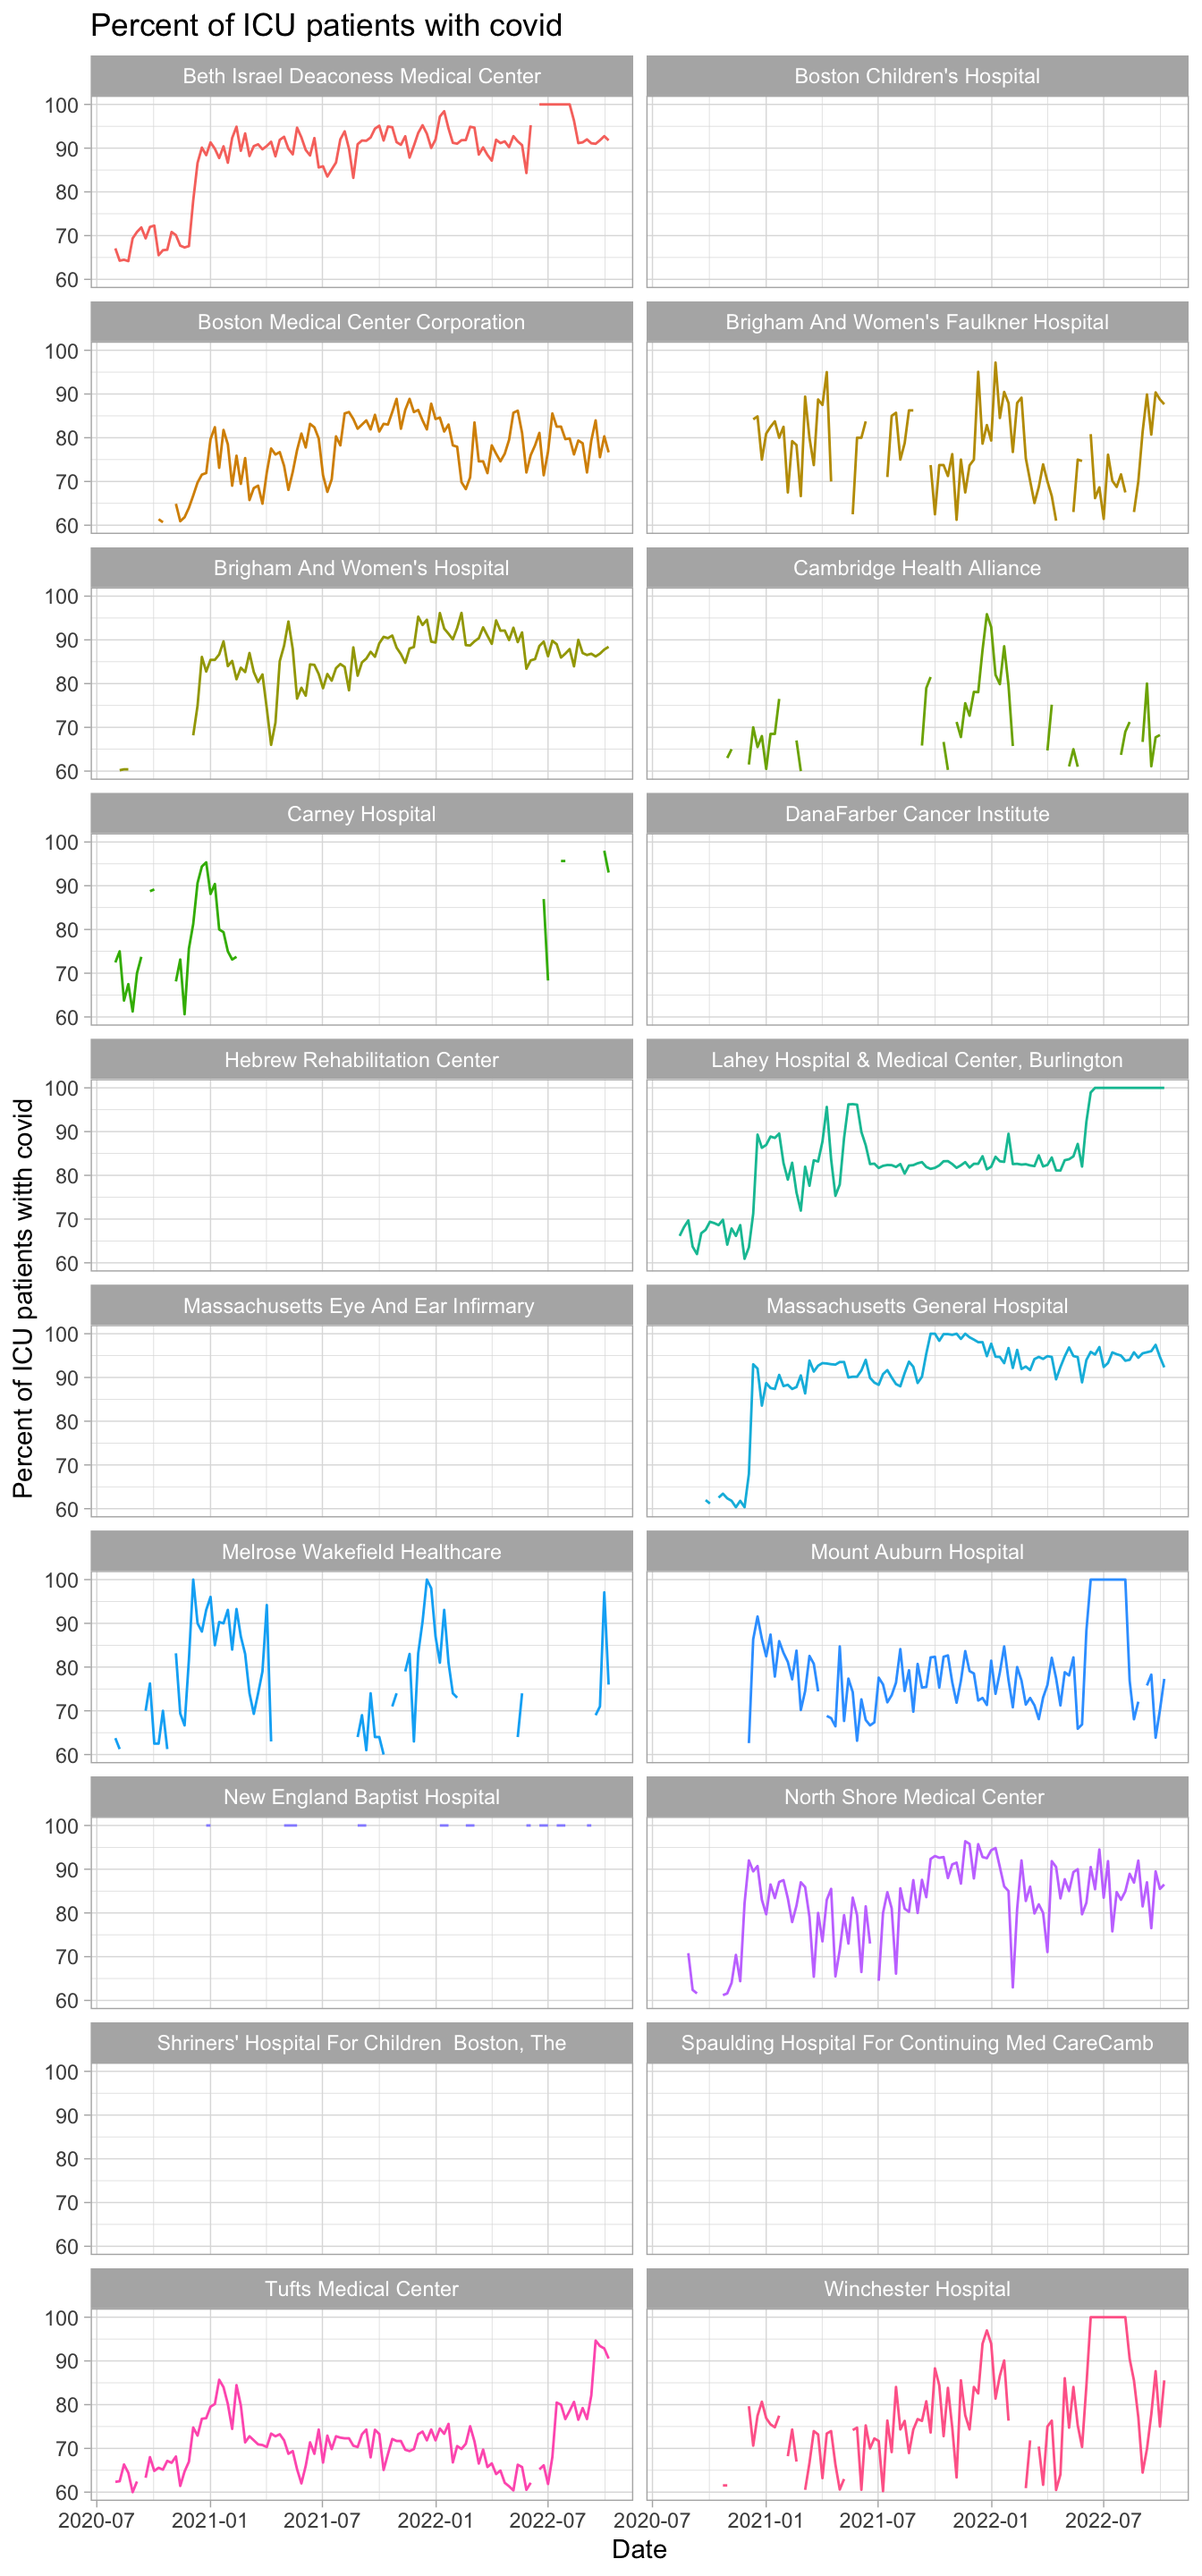
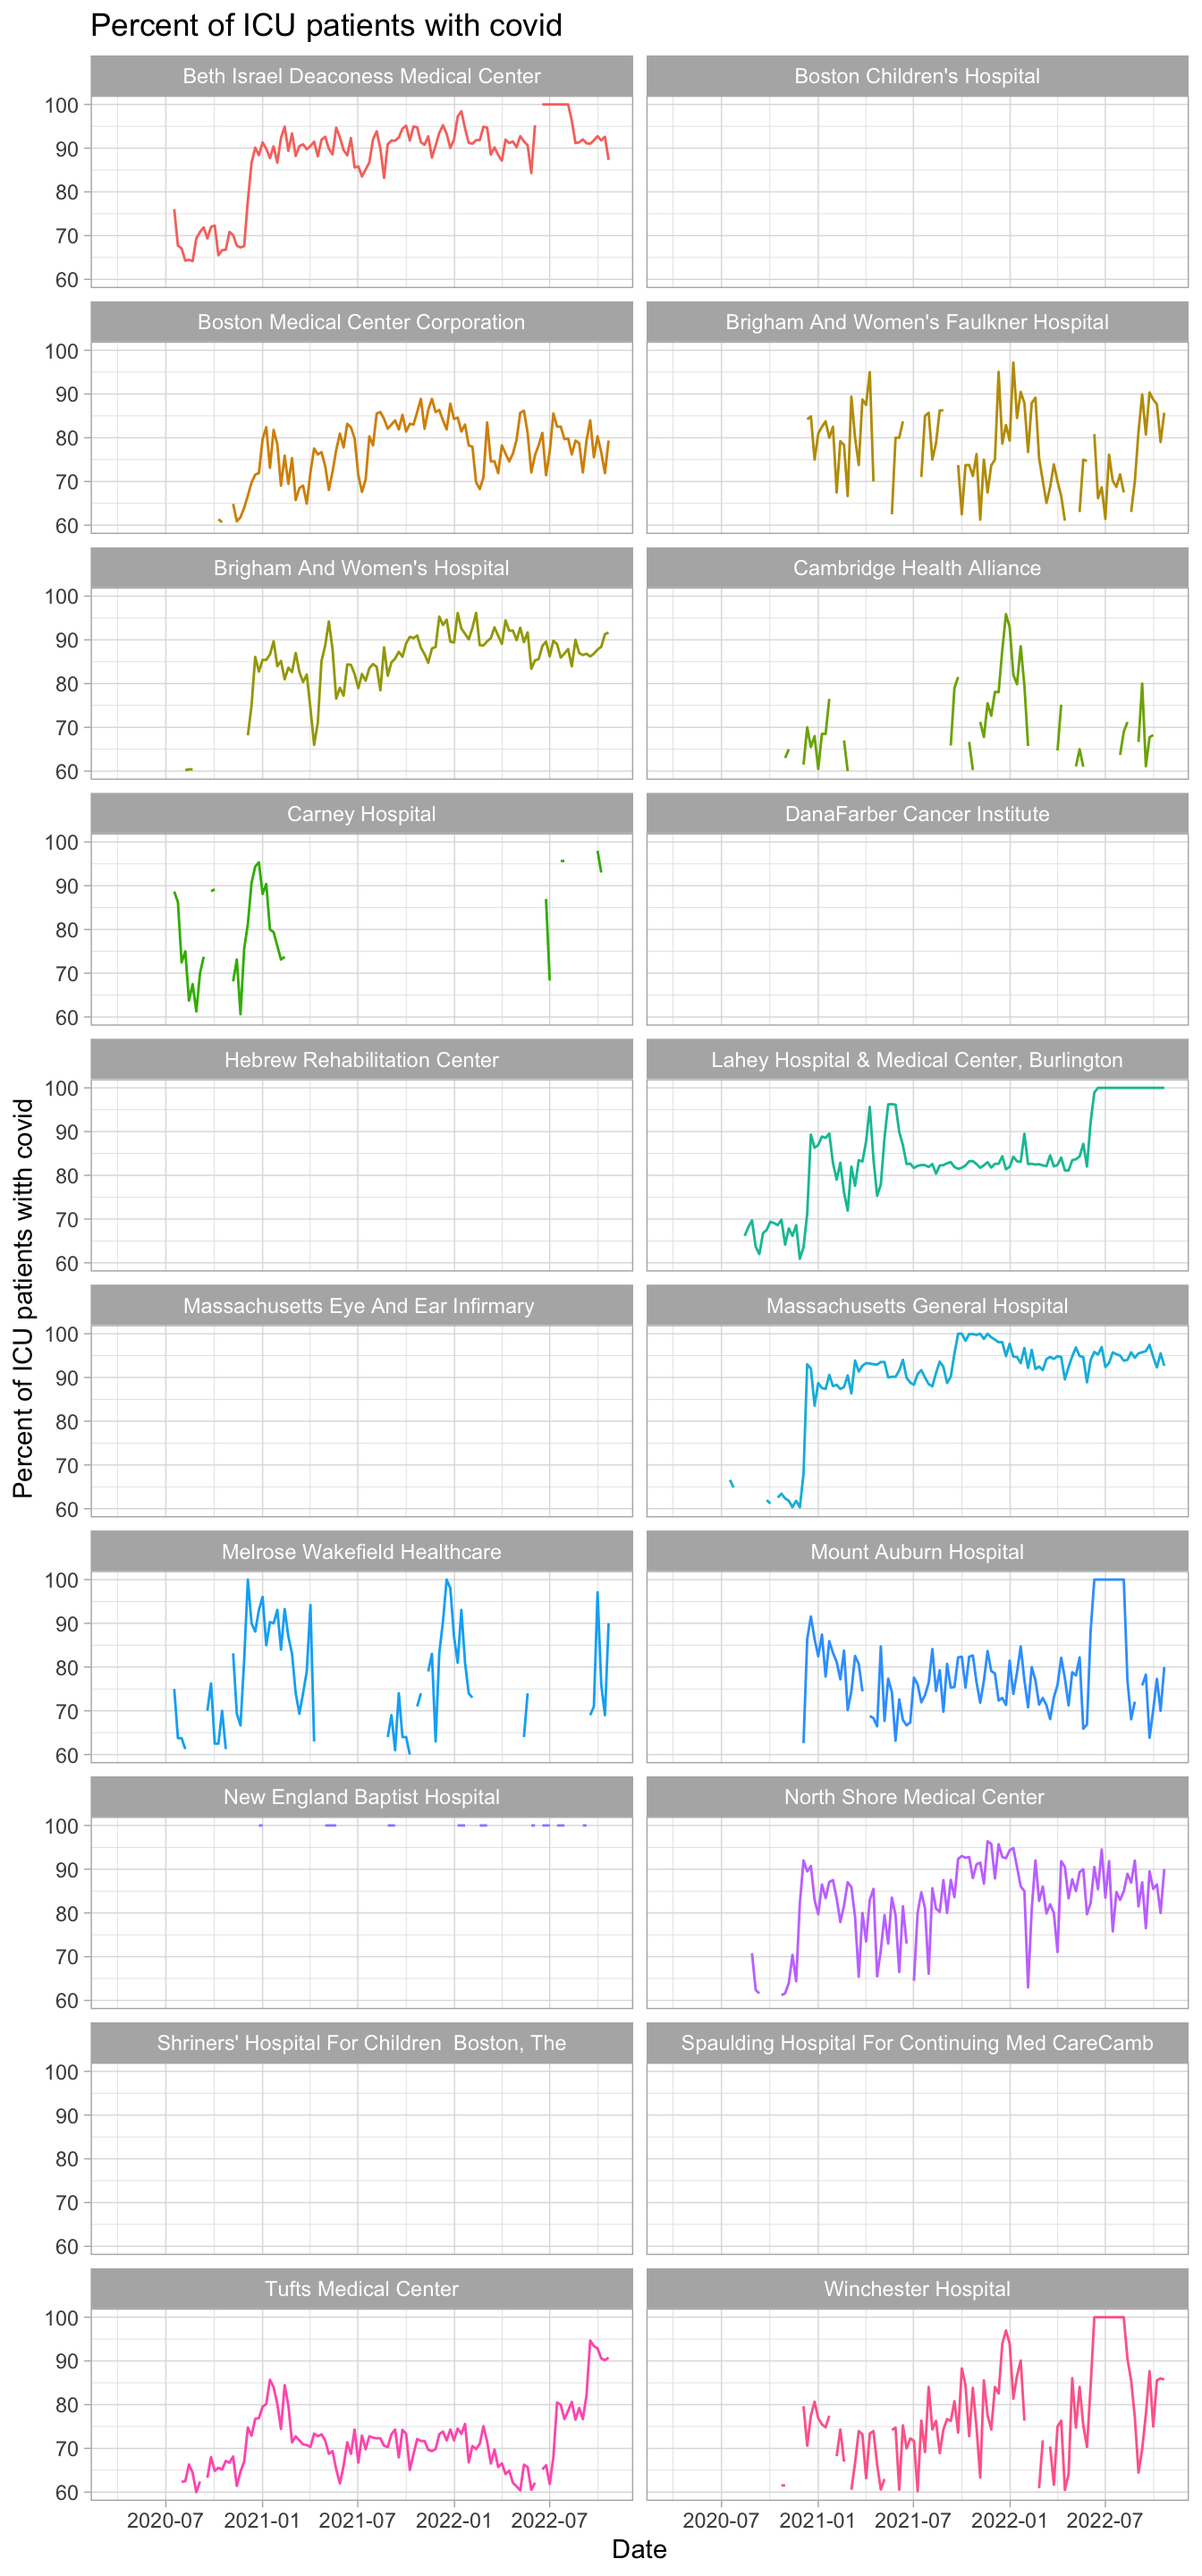
updated data

diff --git a/docs/index.html b/docs/index.html
@@ -307,7 +307,7 @@ it could indicate that many other cases are being missed).</p>
 <p>The US Department of Health and Human Services gives data on hospital
 usage. Here are data of ICU bed availability for hospitals in this area
 with at least 25 staffed ICU beds, using data from the week starting
-2022-10-07.</p>
+2022-10-21.</p>
 <table>
 <colgroup>
 <col width="46%" />
@@ -326,45 +326,51 @@ with at least 25 staffed ICU beds, using data from the week starting
 <tbody>
 <tr class="odd">
 <td align="left">Beth Israel Deaconess Medical Center</td>
-<td align="right">7</td>
-<td align="right">123</td>
-<td align="right">95</td>
+<td align="right">13</td>
+<td align="right">124</td>
+<td align="right">90</td>
 </tr>
 <tr class="even">
 <td align="left">Boston Children’s Hospital</td>
-<td align="right">7</td>
+<td align="right">4</td>
 <td align="right">134</td>
-<td align="right">95</td>
+<td align="right">97</td>
 </tr>
 <tr class="odd">
 <td align="left">Boston Medical Center Corporation</td>
-<td align="right">17</td>
+<td align="right">18</td>
 <td align="right">88</td>
-<td align="right">81</td>
+<td align="right">80</td>
 </tr>
 <tr class="even">
 <td align="left">Brigham And Women’s Hospital</td>
-<td align="right">12</td>
-<td align="right">159</td>
-<td align="right">92</td>
+<td align="right">9</td>
+<td align="right">173</td>
+<td align="right">95</td>
 </tr>
 <tr class="odd">
 <td align="left">Lahey Hospital &amp; Medical Center, Burlington</td>
 <td align="right">0</td>
-<td align="right">43</td>
+<td align="right">39</td>
 <td align="right">100</td>
 </tr>
 <tr class="even">
 <td align="left">Massachusetts General Hospital</td>
-<td align="right">9</td>
-<td align="right">150</td>
+<td align="right">8</td>
+<td align="right">139</td>
 <td align="right">94</td>
 </tr>
 <tr class="odd">
+<td align="left">Mount Auburn Hospital</td>
+<td align="right">13</td>
+<td align="right">29</td>
+<td align="right">55</td>
+</tr>
+<tr class="even">
 <td align="left">Tufts Medical Center</td>
-<td align="right">22</td>
+<td align="right">19</td>
 <td align="right">96</td>
-<td align="right">77</td>
+<td align="right">80</td>
 </tr>
 </tbody>
 </table>
@@ -376,7 +382,7 @@ in the state:</p>
 <p>And those intubated:</p>
 <p><img src="index_files/figure-html/unnamed-chunk-7-1.png" width="672" /></p>
 <p>Plotting percentage of ICU patients with covid over time (up to the
-week starting 2022-10-07). Some hospitals have much more frequently
+week starting 2022-10-21). Some hospitals have much more frequently
 updated data than others; some is fairly gappy. This just plots the
 hospitals that average at least 25 staffed <em>adult</em> ICU beds per
 week.</p>

diff --git a/docs/individualhospitals.html b/docs/individualhospitals.html
@@ -302,45 +302,51 @@ usage. Here are data for hospitals in this area.</p>
 <tbody>
 <tr class="odd">
 <td align="left">Beth Israel Deaconess Medical Center</td>
-<td align="right">7</td>
-<td align="right">123</td>
-<td align="right">95</td>
+<td align="right">13</td>
+<td align="right">124</td>
+<td align="right">90</td>
 </tr>
 <tr class="even">
 <td align="left">Boston Children’s Hospital</td>
-<td align="right">7</td>
+<td align="right">4</td>
 <td align="right">134</td>
-<td align="right">95</td>
+<td align="right">97</td>
 </tr>
 <tr class="odd">
 <td align="left">Boston Medical Center Corporation</td>
-<td align="right">17</td>
+<td align="right">18</td>
 <td align="right">88</td>
-<td align="right">81</td>
+<td align="right">80</td>
 </tr>
 <tr class="even">
 <td align="left">Brigham And Women’s Hospital</td>
-<td align="right">12</td>
-<td align="right">159</td>
-<td align="right">92</td>
+<td align="right">9</td>
+<td align="right">173</td>
+<td align="right">95</td>
 </tr>
 <tr class="odd">
 <td align="left">Lahey Hospital &amp; Medical Center, Burlington</td>
 <td align="right">0</td>
-<td align="right">43</td>
+<td align="right">39</td>
 <td align="right">100</td>
 </tr>
 <tr class="even">
 <td align="left">Massachusetts General Hospital</td>
-<td align="right">9</td>
-<td align="right">150</td>
+<td align="right">8</td>
+<td align="right">139</td>
 <td align="right">94</td>
 </tr>
 <tr class="odd">
+<td align="left">Mount Auburn Hospital</td>
+<td align="right">13</td>
+<td align="right">29</td>
+<td align="right">55</td>
+</tr>
+<tr class="even">
 <td align="left">Tufts Medical Center</td>
-<td align="right">22</td>
+<td align="right">19</td>
 <td align="right">96</td>
-<td align="right">77</td>
+<td align="right">80</td>
 </tr>
 </tbody>
 </table>
